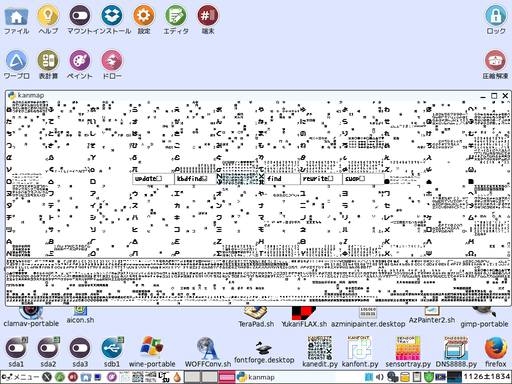
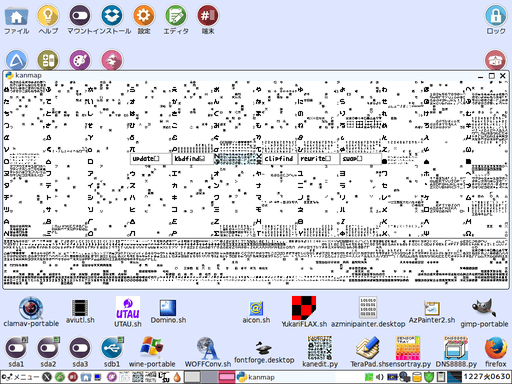
「kanmap.py」の保存先を「LTsv/kanmap.tsv」に揃えた。

diff --git a/docs/kanmap.html b/docs/kanmap.html
@@ -32,7 +32,7 @@
   <h1>「kanmap」は「LTsv10kanedit(tsvtool10)」を用いたグリフ進捗ビュアーです。</h1>
   <p>
 
-   version(branch):20161215R220253	modify:20161225U224528<br />
+   version(branch):20161215R220253	modify:20161227T072309<br />
   
 </p>
   <h2>目次</h2>
@@ -109,7 +109,7 @@
 <p>
  事前にグリフを「LTsv/kanpickle.bin」へ積み込む事で「kanedit」「kanfont」などの動作がスムーズになります。<br />
  「<a href="https://github.com/ooblog/LTsv10kanedit/blob/master/kanmap.py" title="https://github.com/ooblog/LTsv10kanedit/blob/master/kanmap.py">kanmap.py</a>」を起動すると上部に漢字配列「<a href="https://github.com/ooblog/LTsv10kanedit/blob/master/LTsv/kanmap.tsv" title="https://github.com/ooblog/LTsv10kanedit/blob/master/LTsv/kanmap.tsv">LTsv/kanmap.tsv</a>」、下部に単漢字辞書「<a href="https://github.com/ooblog/LTsv10kanedit/blob/master/LTsv/kanchar.tsv" title="https://github.com/ooblog/LTsv10kanedit/blob/master/LTsv/kanchar.tsv">LTsv/kanchar.tsv</a>」を表示します。<br />
- 「kanmap」を終了する時に「LTsv/kanpickle.bin」と「kanmap.png」を保存します(PNGの生成はGTKのみ)。<br />
+ 「<a href="https://github.com/ooblog/LTsv10kanedit/blob/master/kanmap.py" title="https://github.com/ooblog/LTsv10kanedit/blob/master/kanmap.py">kanmap.py</a>」を終了する時に「LTsv/kanpickle.bin」と「kanmap.png」を保存します(PNGの生成はGTKのみ)。<br />
 </p>
 
 </section>
@@ -128,29 +128,29 @@
           カーソル点灯。クリップボードに１文字転送。<br />
 </dd></dl>
 <dl><dt>
-  「find」をタップ</dt>
+  「clipfind」をタップ</dt>
 <dd>
-          クリップボードの文字で検索してカーソル点灯。漢直鍵盤も同様に移動。複数同じ文字がある場合最初の文字を表示するので注意。<br />
+            クリップボードの文字で検索してカーソル点灯。漢直鍵盤も同様に移動。複数同じ文字がある場合最初の文字を表示するので注意。<br />
 </dd></dl>
 <dl><dt>
-  「update☐」にチェック</dt>
+  「update☐」にチェック☑</dt>
 <dd>
-    ONにして「kanmap」を終了すると「LTsv/kanmap.tsv」を上書き(予定)。<br />
+        ONの状態で[Ctrl]+[S]もしくは「<a href="https://github.com/ooblog/LTsv10kanedit/blob/master/kanmap.py" title="https://github.com/ooblog/LTsv10kanedit/blob/master/kanmap.py">kanmap.py</a>」を終了すると「LTsv/kanmap.tsv」を上書保存。<br />
 </dd></dl>
 <dl><dt>
-  「kbdfind☐」にチェック</dt>
+  「kbdfind☐」にチェック☑</dt>
 <dd>
-    ONにすると「find」をタップしなくても漢直鍵盤の操作だけで検索してカーソル点灯。<br />
+       ONの状態なら漢直鍵盤の入力操作で検索してカーソル点灯。<br />
 </dd></dl>
 <dl><dt>
-  「rewrite☐」にチェック</dt>
+  「rewrite☐」にチェック☑</dt>
 <dd>
-   ONの時かつ漢字配列カーソル点灯状態で、単漢字辞書文字タップで漢字配列の文字を上書き(予定)。<br />
+       ONの時かつ漢字配列カーソル点灯状態で、単漢字辞書文字タップすると漢字配列の文字を差替。<br />
 </dd></dl>
 <dl><dt>
-  「swap☐」にチェック</dt>
+  「swap☐」にチェック☑</dt>
 <dd>
-      ONの時かつ漢字配列カーソル点灯状態で、別の漢字配列文字タップで漢字配列の文字を上書き(予定)。<br />
+          ONの時かつ漢字配列カーソル点灯状態で、別の漢字配列文字タップすると漢字配列の文字同士を交換。<br />
 </dd></dl>
 
 </section>

diff --git a/docs/404.html b/docs/404.html
@@ -32,7 +32,7 @@
   <h1>「LTsv10kanedit(tsvtool10)」は「L:Tsv」の読み書きを中心としたモジュール群です。</h1>
   <p>
 
-   version(branch):20161215R220253	modify:20161225U224528<br />
+   version(branch):20161215R220253	modify:20161227T072309<br />
   
 </p>
   <h2>サイトマップ</h2>

diff --git a/docs/kanfont.html b/docs/kanfont.html
@@ -32,7 +32,7 @@
   <h1>「kanfont」は「LTsv10kanedit(tsvtool10)」を用いたフォントエディタ(グリフエディタ)です。</h1>
   <p>
 
-   version(branch):20161215R220253	modify:20161225U224528<br />
+   version(branch):20161215R220253	modify:20161227T072309<br />
   
 </p>
   <h2>目次</h2>

diff --git a/docs/LTsv_doc.html b/docs/LTsv_doc.html
@@ -32,7 +32,7 @@
   <h1>「LTsv_doc」は「LTsv10kanedit(tsvtool10)」を用いたドキュメントジェネレーターです。</h1>
   <p>
 
-   version(branch):20161215R220253	modify:20161225U224528<br />
+   version(branch):20161215R220253	modify:20161227T072309<br />
   
 </p>
   <h2>目次</h2>

diff --git a/docs/kanedit.html b/docs/kanedit.html
@@ -32,7 +32,7 @@
   <h1>「kanedit」は「LTsv10kanedit(tsvtool10)」を用いた漢直テキストエディタの予定です。</h1>
   <p>
 
-   version(branch):20161215R220253	modify:20161225U224528<br />
+   version(branch):20161215R220253	modify:20161227T072309<br />
   
 </p>
   <h2>目次</h2>

diff --git a/docs/index.html b/docs/index.html
@@ -32,7 +32,7 @@
   <h1>「LTsv10kanedit(tsvtool10)」は「L:Tsv」の読み書きを中心としたモジュール群です。</h1>
   <p>
 
-   version(branch):20161215R220253	modify:20161225U224528<br />
+   version(branch):20161215R220253	modify:20161227T072309<br />
   
 </p>
   <h2>目次</h2>

diff --git a/docs/kanzip.html b/docs/kanzip.html
@@ -32,7 +32,7 @@
   <h1>「kanzip」は「LTsv10kanedit(tsvtool10)」を用いた郵便番号ダウンローダーです。</h1>
   <p>
 
-   version(branch):20161215R220253	modify:20161225U224528<br />
+   version(branch):20161215R220253	modify:20161227T072309<br />
   
 </p>
   <h2>目次</h2>

diff --git a/kanmap.py b/kanmap.py
@@ -29,7 +29,7 @@ kanmap_linefix=False
 def kanmap_KBDstart(drawwait):
     global kanmap_drawwait
     kanmap_drawwait=min(max(drawwait,5),1000)
-    LTsv_widget_settext(kanmap_window,"kanmap:pickling kanmap.tsv")
+    LTsv_widget_settext(kanmap_window,"kanmap:pickling {0}".format(LTsv_global_kanmappath()))
     for map_xy in range(len(LTsv_global_irohaalpha())):
         map_x,map_y=kanmap_irohaalphaNX[map_xy]//LTsv_glyph_kbdF,kanmap_irohaalphaNY[map_xy]//LTsv_glyph_kbdF-2
         for kbd_xy in range(len(LTsv_global_irohatype())):
@@ -73,7 +73,7 @@ def kanmap_KBDfinishDICstart():
         LTsv_draw_glyphskbd(draw_t=LTsv_global_irohaalphaX()[map_xy],draw_x=kanmap_irohaalphaXX[map_xy]-LTsv_glyph_kbdF*2,draw_y=kanmap_irohaalphaXY[map_xy],draw_f=10,draw_g="漫")
     LTsv_draw_polygonfill(LTsv_glyph_kbdF//2,kanmap_dicY-LTsv_glyph_kbdF//2,kanmap_canvasW-LTsv_glyph_kbdF//2,kanmap_dicY-LTsv_glyph_kbdF//2,kanmap_canvasW-LTsv_glyph_kbdF//2,kanmap_dicY-LTsv_glyph_kbdF//2-1,LTsv_glyph_kbdF//2,kanmap_dicY-LTsv_glyph_kbdF//2-1)
     LTsv_draw_queue()
-    LTsv_widget_settext(kanmap_window,"kanmap:pickling LTsv/kanchar.tsv")
+    LTsv_widget_settext(kanmap_window,"kanmap:pickling {0}".format(LTsv_global_kandicpath()))
     for dic_xy in range(kandic_charsH):
         for map_xy in range(kanmap_charsW):
             dicpos=dic_xy*kanmap_charsW+map_xy
@@ -240,7 +240,7 @@ def kanmap_configsave_exit(window_objvoid=None,window_objptr=None):
     LTsv_window_exit()
 
 def kanmap_mapsave():
-    kanmap_kanmapname=LTsv_global_kanmappath(); kanmap_kanmapname="testkanmap.tsv"
+    kanmap_kanmapname=LTsv_global_kanmappath(); #kanmap_kanmapname="testkanmap.tsv"
     kanmap_kanmap=""
     for map_iroha in LTsv_global_irohaalpha():
         kanmap_irohaline="{0}\t{1}".format("\t".join(LTsv_glyph_kanmapN[map_iroha]),"\t".join(LTsv_glyph_kanmapX[map_iroha]))
